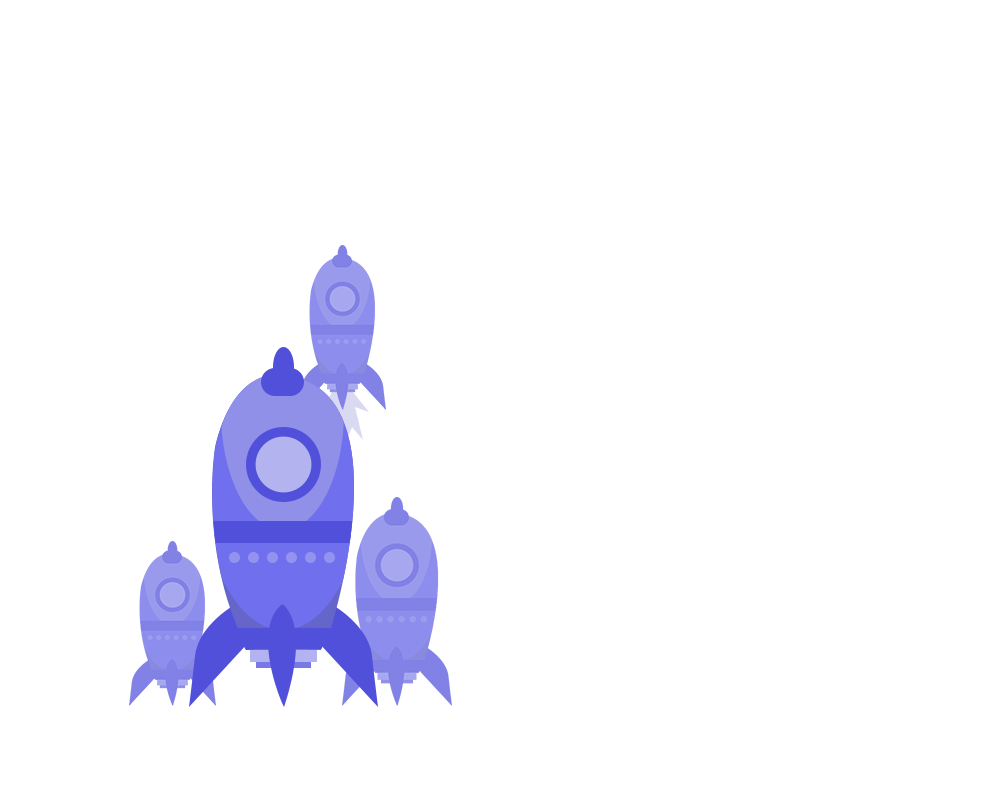
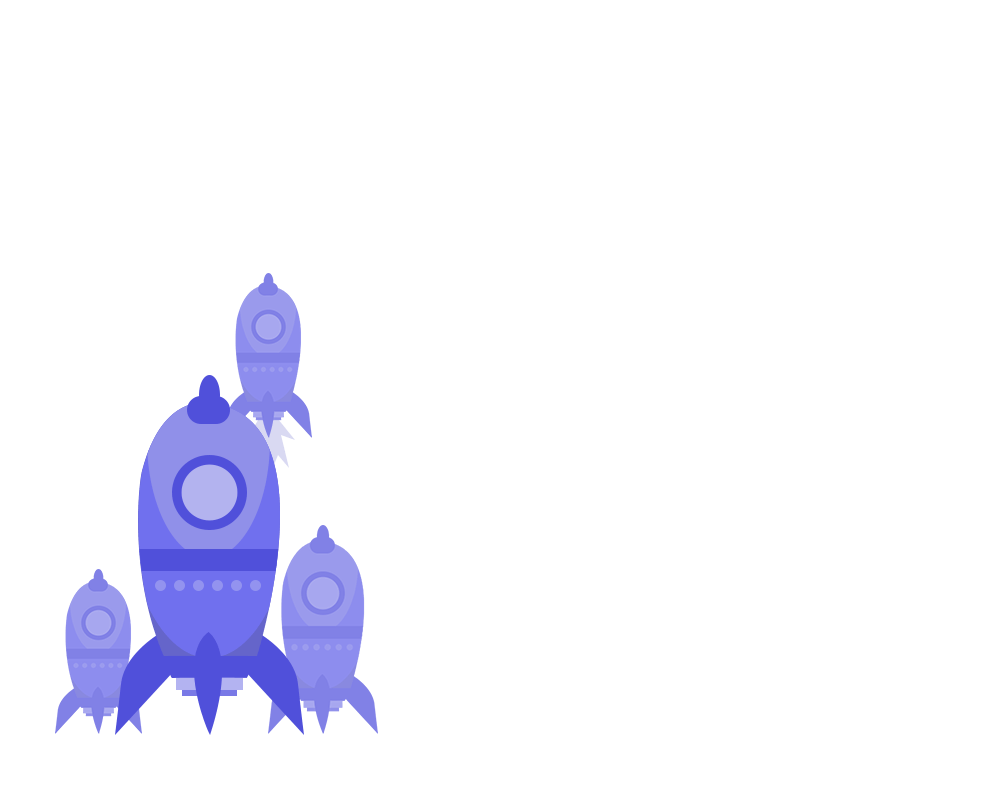
no message

Changed region(s): [[0.031, 0.3125, 0.465, 0.9375]]

diff --git a/index.html b/index.html
@@ -9,7 +9,7 @@
 		    padding: 0;
 	    }
 	    .beijing{
-	     	background: #2f2fa2 url(images/daodan1.png);/**背景颜色**/
+	     	background: #2f2fa2 url(images/daodan.png)no-repeat center;/**背景颜色**/
 	     	height: 800px;/**背景高度**/
 	    	overflow: hidden;/**超出隐藏**/
 	    }
